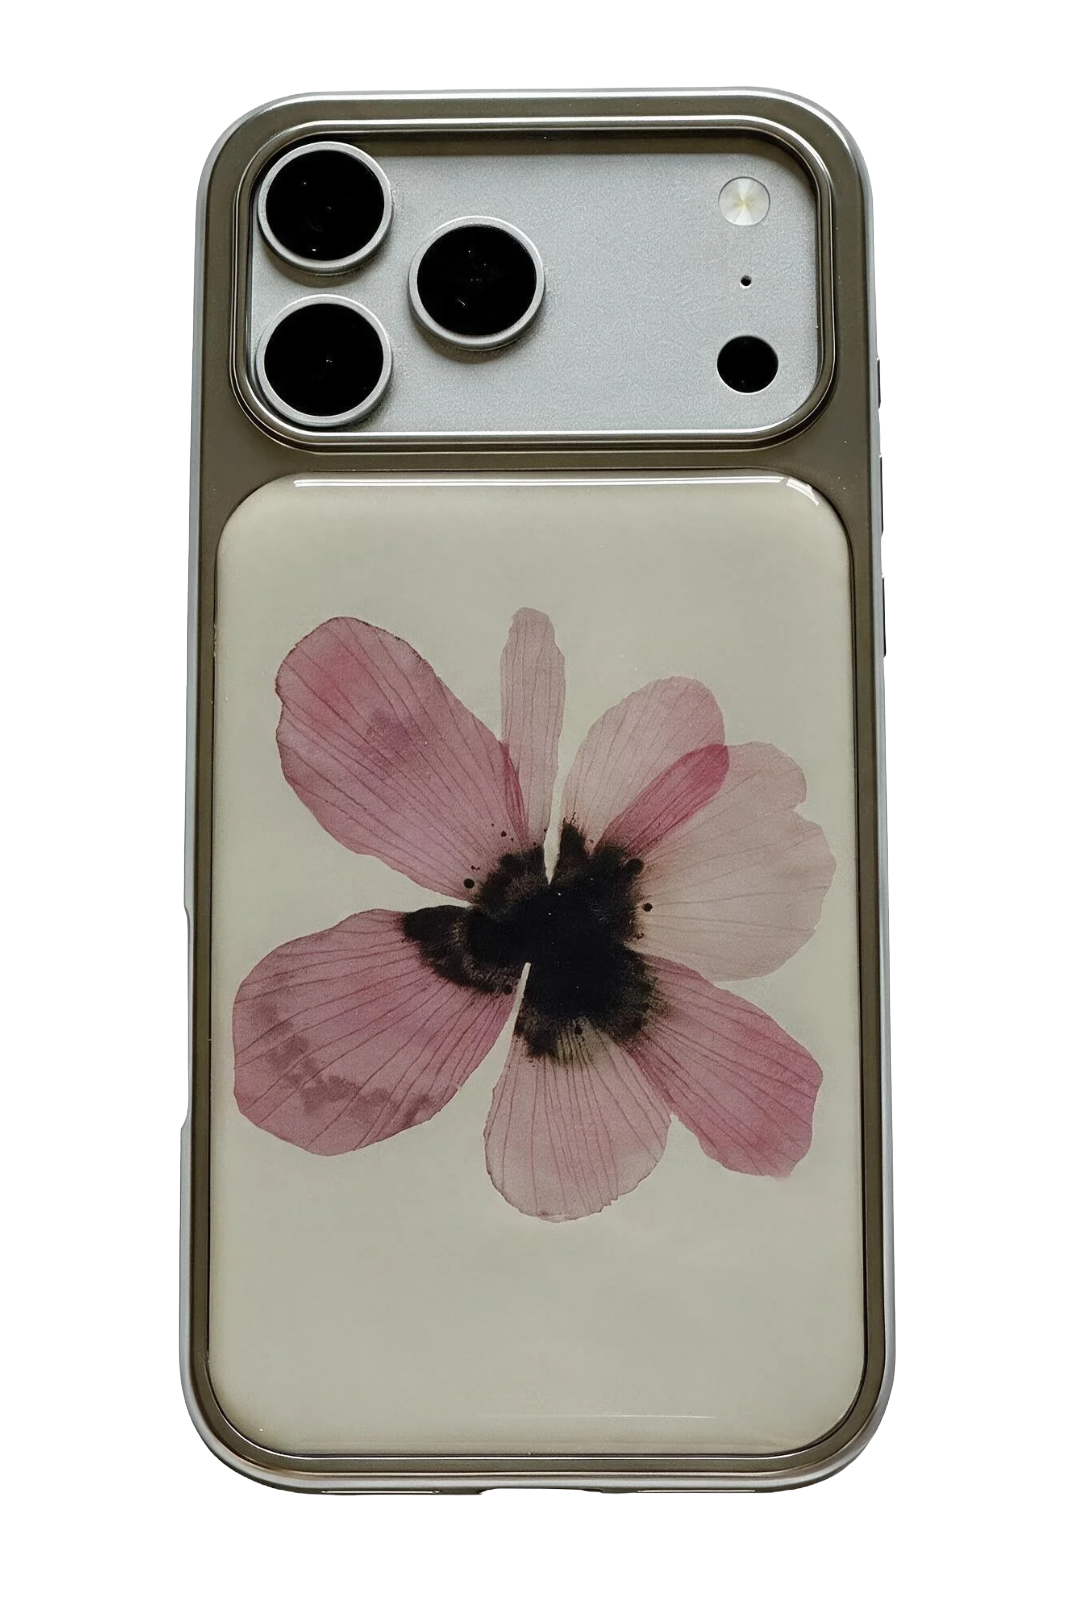
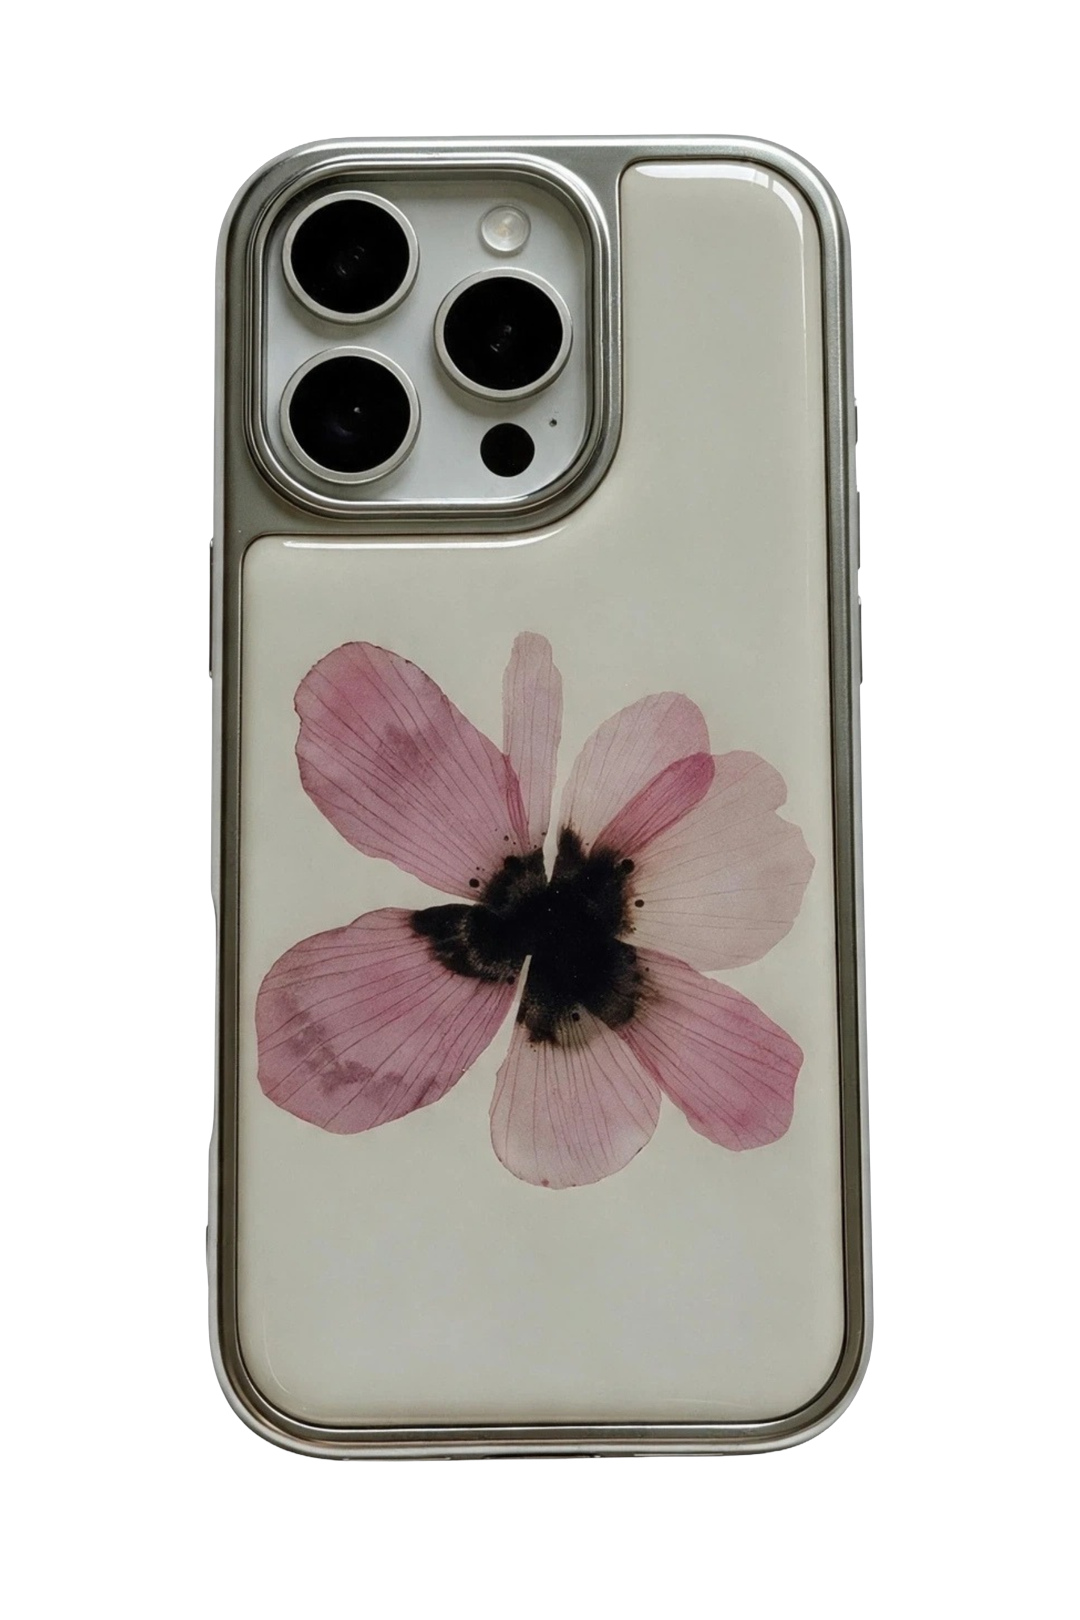
feat: pressed blossom replaces pink-bow in the hero fan
Slot 4 (right of centre) becomes the pressed blossom case instead of
pink-bow-hero.png.

Reframed, not copied. The source is 1587x2245 (0.707) against 2:3 slots, and
its subject fills 93% of the height where the fan sits at 81-84% — so dropped
in as-is it would both letterbox AND stand taller than everything beside it.
Cropped to its opaque bounds and recomposed onto 1080x1620 at the measured
framing of the four slots that are STAYING (8.2% top, 82.1% fill) - averaging
in pink-bow would have matched against the case being removed. Lands at 62% W
/ 82% H, right in the pack.

Written over public/blossom-hero.png, which the previous commit left
unreferenced - same design, better crop, so reusing the name rather than
accumulating a third near-duplicate blossom file.

Verified at 412px: all five slots now report naturalRatio 0.6667 against 2:3
boxes, so nothing in the fan is fitted or stretched; pink-bow-hero.png no
longer appears in the hero, and stays untouched as Pink Bow's product image on
/shop, its PDP and the cart. No horizontal overflow.

Changed region(s): [[0.1528, 0.0309, 0.8556, 0.9259], [0.55, 0.4321, 0.5806, 0.463]]

diff --git a/app/(store)/page.tsx b/app/(store)/page.tsx
@@ -71,7 +71,7 @@ const heroCases = [
   { src: "/white-rose-hero.png", alt: "White rose floral case", name: "white-rose" },
   { src: "/blue-case-hero.png", alt: "Blue blossom floral case", name: "blue-blossom" },
   { src: "/pink-rose-hero.png", alt: "Pink ditsy rose case", name: "pink-rose" },
-  { src: "/pink-bow-hero.png", alt: "Pink bow-knot case", name: "pink-bow" },
+  { src: "/blossom-hero.png", alt: "Pressed blossom case", name: "blossom" },
   { src: "/tulip-hero.png", alt: "Tulip pattern case", name: "tulip" },
 ].slice(0, FAN_SLOTS.length);
 
